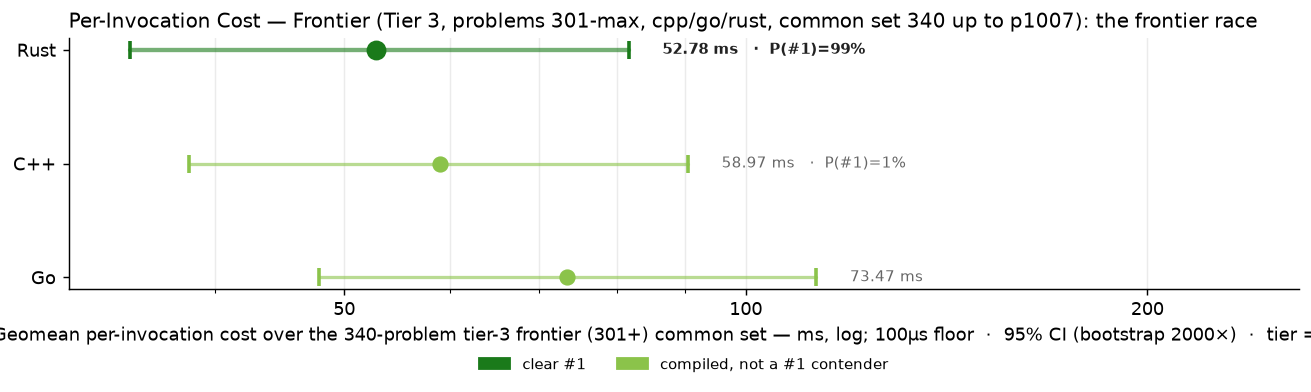
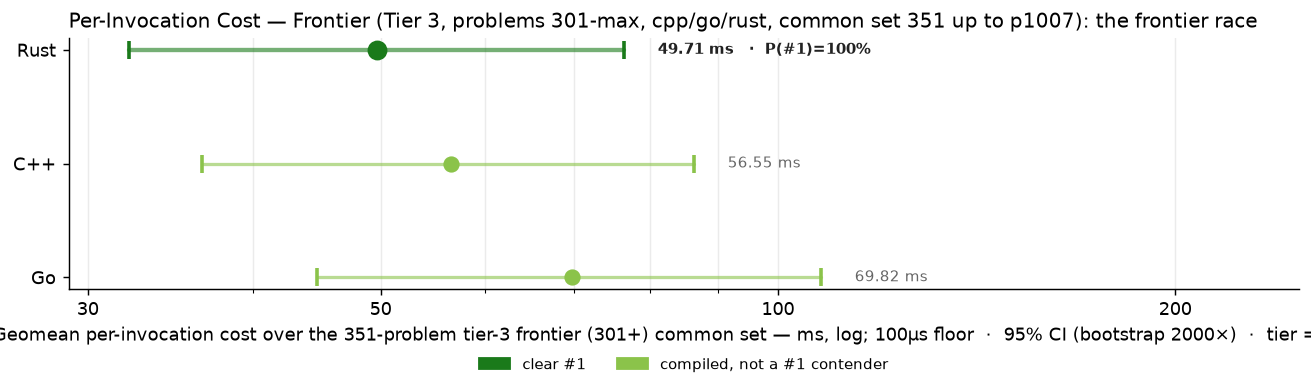
bench: p0955-p0978 go+rust ports; p0972 Klein-model rewrite

diff --git a/RESULTS.md b/RESULTS.md
@@ -1,6 +1,6 @@
 # Project Euler — Cross-Language Benchmarks
 
-> **Scope: 4621 in-scope cells across 1007 problems × tiered languages — 3636 measured (78.7% coverage).**
+> **Scope: 4621 in-scope cells across 1007 problems × tiered languages — 3657 measured (79.1% coverage).**
 > The cross-language ranking below is computed over the **200-problem common set** (problems in 1-200 where every language has a passing measurement) — the apples-to-apples Foundation comparison surface.  Per-tier rankings and coverage detail appear further below.
 > Growing carefully — each new problem and language is audited for state-leak
 > safety, verified for answer correctness, and added only when it cleanly fits the
@@ -71,15 +71,15 @@ Same scatter as the Foundation chart, restricted to the tier-2 active languages 
 
 The frontier verification trio — C++, Go, Rust — on problems above 300. 3-way cross-language agreement is the verification protocol (strictly stronger than 2-way; see JOURNEY.md "Tier Reframing" episode for the p254 lesson that motivated it). Python and Zig are explicitly out of this tier — python's wall cost makes it impractical at level 5+, and zig's role caps at Tier 2.
 
-### Per-Invocation Cost (Common Set, 340 of ≤707 problems in scope)
+### Per-Invocation Cost (Common Set, 351 of ≤707 problems in scope)
 
 ![Per-Invocation Cost — Tier 3](charts/per_iter_total_tier3.png)
 
-| Rank | Language | Geomean (340-problem common set) | Total (sum) | Lines of code | vs Fastest |
+| Rank | Language | Geomean (351-problem common set) | Total (sum) | Lines of code | vs Fastest |
 |------|----------|--------------------:|------------:|--------------:|-----------:|
-| 1 | **Rust** | 52.78 ms | 1116.11 s | 44,012 | 1.00× |
-| 2 | **C++** | 58.97 ms | 1232.70 s | 38,653 | 1.12× |
-| 3 | **Go** | 73.47 ms | 1404.41 s | 45,800 | 1.39× |
+| 1 | **Rust** | 49.71 ms | 1120.85 s | 45,438 | 1.00× |
+| 2 | **C++** | 56.55 ms | 1238.61 s | 39,782 | 1.14× |
+| 3 | **Go** | 69.82 ms | 1409.45 s | 47,335 | 1.40× |
 
 ### Speed vs Code Size
 

diff --git a/per_problem/per_problem_0901-1000.md b/per_problem/per_problem_0901-1000.md
@@ -62,30 +62,30 @@ in tier-1 display order (native → managed → interpreted).
 | **p0952** | — | — | — |
 | **p0953** | — | — | — |
 | **p0954** | — | — | — |
-| **p0955** | 2.05 ms | — | — |
-| **p0956** | 109.71 ms | — | — |
+| **p0955** | 2.05 ms | 1.42 ms† | 1.26 ms† |
+| **p0956** | 109.71 ms | 9.95 ms† | 27.89 ms† |
 | **p0957** | — | — | — |
 | **p0958** | — | — | — |
-| **p0959** | 15.4 µs | — | — |
+| **p0959** | 15.4 µs | 148.6 µs† | 39.8 µs |
 | **p0960** | — | — | — |
-| **p0961** | 5.91 ms | — | — |
+| **p0961** | 5.91 ms | 2.25 ms | 10.78 ms† |
 | **p0962** | — | — | — |
 | **p0963** | — | — | — |
 | **p0964** | — | — | — |
-| **p0965** | 239.48 ms | — | — |
+| **p0965** | 239.48 ms | 418.55 ms | 346.42 ms |
 | **p0966** | — | — | — |
-| **p0967** | 365.47 ms | — | — |
+| **p0967** | 365.47 ms | 270.26 ms | 496.62 ms |
 | **p0968** | — | — | — |
-| **p0969** | 231.6 µs | — | — |
+| **p0969** | 231.6 µs | 75.3 µs | 102.4 µs |
 | **p0970** | — | — | — |
-| **p0971** | 3.34 s | — | — |
-| **p0972** | 13.18 s | — | — |
+| **p0971** | 3.34 s | 1.54 s | 1.60 s |
+| **p0972** | 1.84 s | 2.49 s | 2.54 s |
 | **p0973** | — | — | — |
-| **p0974** | 7.08 ms | — | — |
+| **p0974** | 7.08 ms | 300.8 µs | 21.01 ms† |
 | **p0975** | ✗ fail | — | — |
 | **p0976** | — | — | — |
 | **p0977** | — | — | — |
-| **p0978** | 84 ns | — | 2.6 µs |
+| **p0978** | 84 ns | 84 ns | 2.6 µs |
 | **p0979** | — | — | — |
 | **p0980** | 180.73 ms | 178.05 ms | 224.65 ms |
 | **p0981** | 78.16 ms | 29.62 ms† | 27.66 ms |
